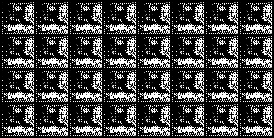
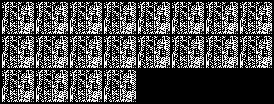
Edits

diff --git a/Comparison_Models/main.py b/Comparison_Models/main.py
@@ -5,7 +5,7 @@ from Models import Discriminator, Generator, LabeledDataset
 from torch.utils.data import DataLoader
 from Training import Trainer
 
-batch_size = 200
+batch_size = 20
 
 dataset = np.expand_dims(np.load("../Files/TPV_dataset.npy"), 1)
 normalizedDataset = (dataset - np.min(dataset)) / (np.max(dataset) - np.min(dataset))
@@ -29,8 +29,8 @@ data_loader = DataLoader(
 
 img_size = (32, 32, 1)
 
-generator = Generator(img_size=img_size, latent_dim=100, dim=68).cuda()
-discriminator = Discriminator(img_size=img_size, dim=68).cuda()
+generator = Generator(img_size=img_size, latent_dim=100, dim=32).cuda()
+discriminator = Discriminator(img_size=img_size, dim=32).cuda()
 
 model_parameters = filter(lambda p: p.requires_grad, generator.parameters())
 params1 = sum([np.prod(p.size()) for p in model_parameters])

diff --git a/Comparison_Models/Training.py b/Comparison_Models/Training.py
@@ -57,6 +57,8 @@ class Trainer:
         d_loss = d_generated.mean() - d_real.mean() + gradient_penalty
         d_loss.backward()
 
+        self.D_opt.step()
+
         # Record loss
         self.losses["D"].append(d_loss.item())
 
